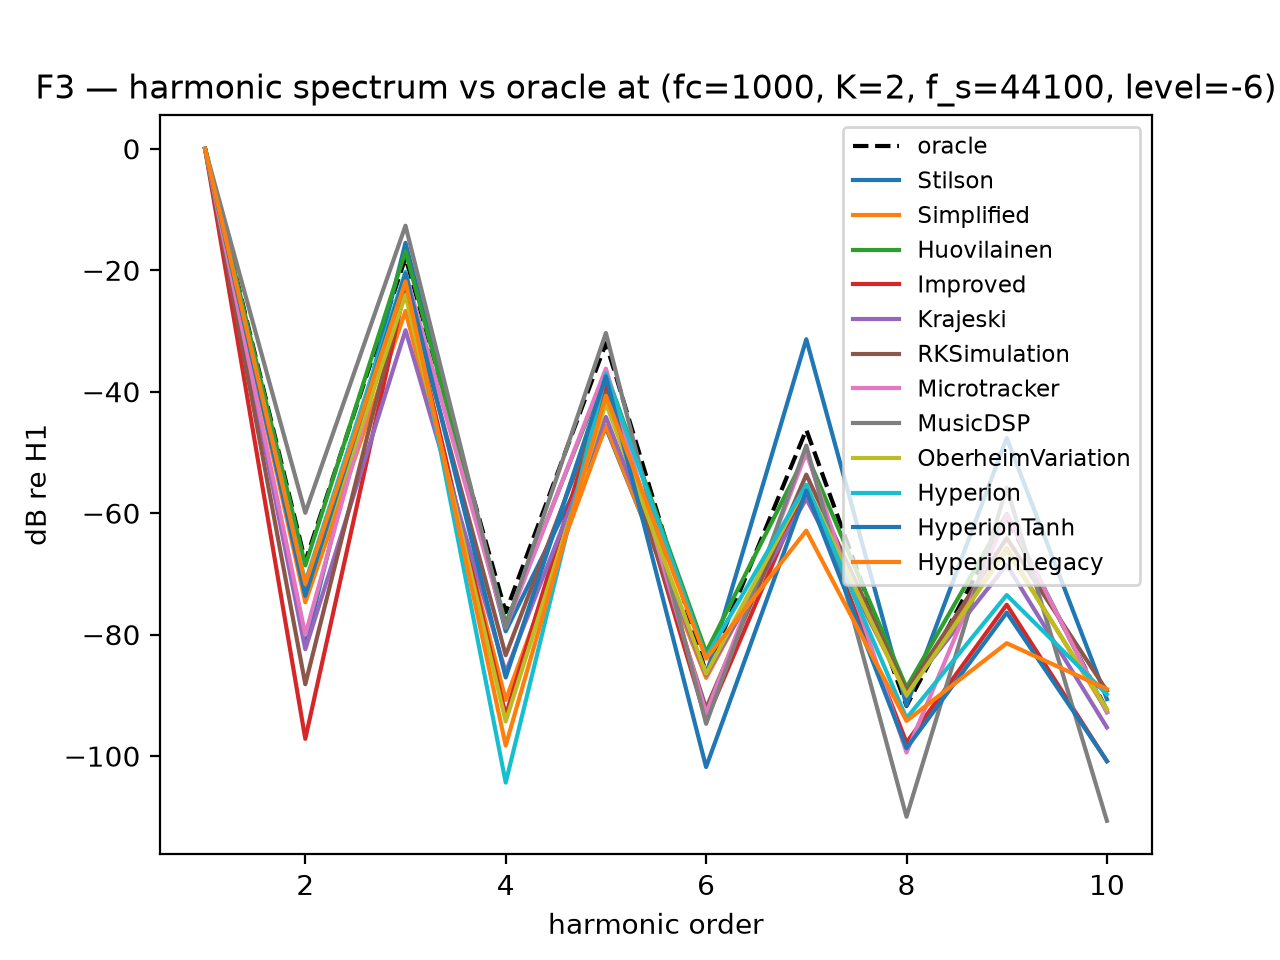
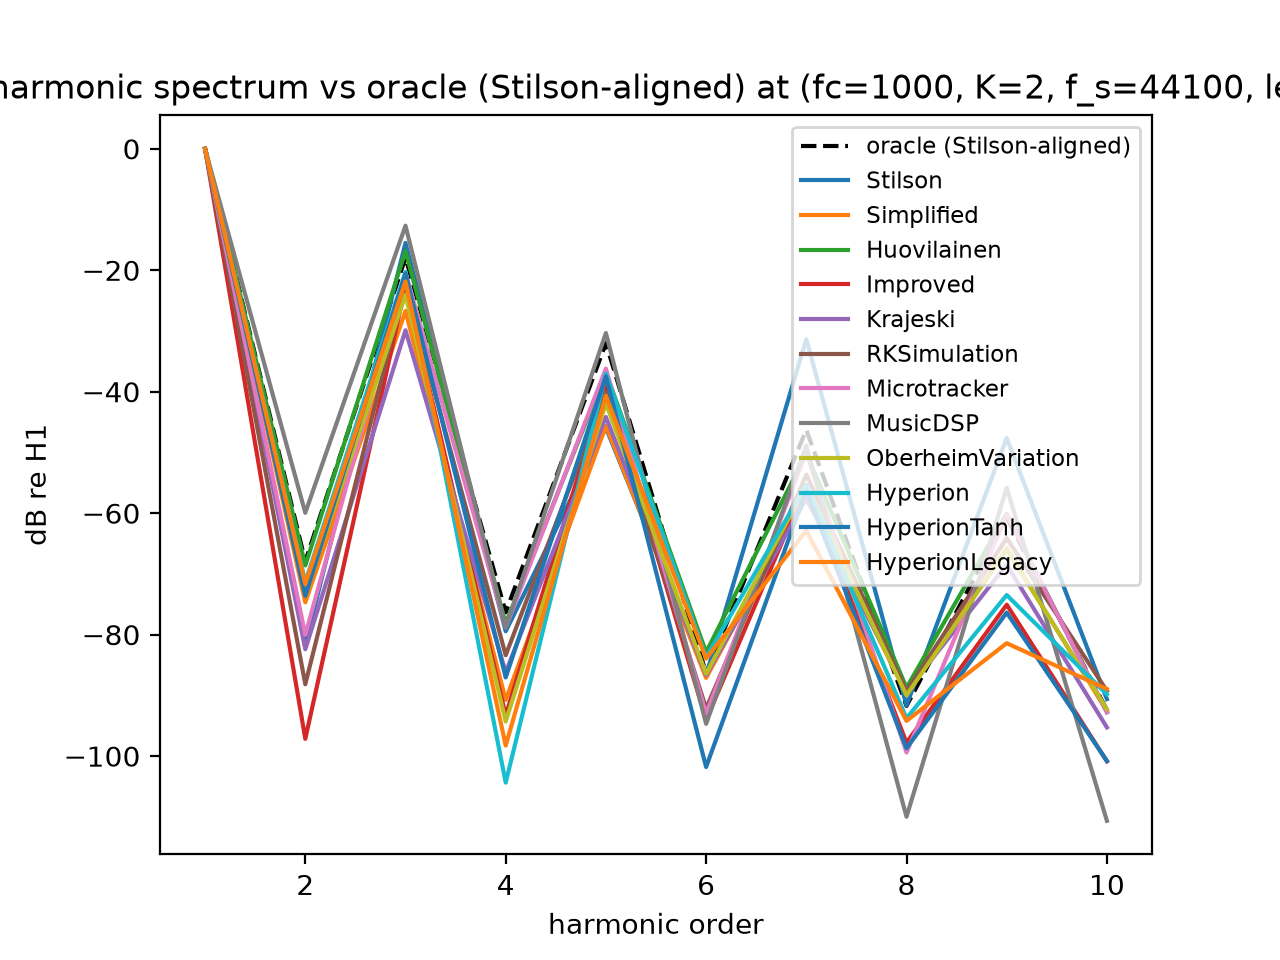
name the oracle source model on F3/F4

Changed region(s): [[0.0, 0.0625, 1.0, 0.625]]

diff --git a/tests/test_report.py b/tests/test_report.py
@@ -169,9 +169,10 @@ def test_f3_and_f4_draw_the_same_models_oracle(monkeypatch, tmp_path):
 
     seen = _captured_axes(monkeypatch, tmp_path, recs)
     f3 = seen["F3_harmonic_spectrum.png"]
-    assert f3["ydata"][f3["labels"].index("oracle")] == [-67.94] + [-80.0] * 9
+    assert f3["ydata"][f3["labels"].index("oracle (Stilson-aligned)")] == \
+        [-67.94] + [-80.0] * 9
     f4 = seen["F4_thd_vs_level.png"]
-    assert f4["ydata"][f4["labels"].index("oracle")] == [12.98] * 5
+    assert f4["ydata"][f4["labels"].index("oracle (Stilson-aligned)")] == [12.98] * 5
 
     # When the enum-first model measured no oracle at all, both figures move to
     # the next one together rather than one of them keeping a stale line.
@@ -182,9 +183,10 @@ def test_f3_and_f4_draw_the_same_models_oracle(monkeypatch, tmp_path):
     assert fe._oracle_source(recs) == "Improved"
     seen = _captured_axes(monkeypatch, tmp_path, recs)
     f3 = seen["F3_harmonic_spectrum.png"]
-    assert f3["ydata"][f3["labels"].index("oracle")] == [-73.78] + [-95.0] * 9
+    assert f3["ydata"][f3["labels"].index("oracle (Improved-aligned)")] == \
+        [-73.78] + [-95.0] * 9
     f4 = seen["F4_thd_vs_level.png"]
-    assert f4["ydata"][f4["labels"].index("oracle")] == [12.96] * 5
+    assert f4["ydata"][f4["labels"].index("oracle (Improved-aligned)")] == [12.96] * 5
 
 
 def test_the_oracle_source_speaks_for_a_figure_it_cannot_serve(monkeypatch, tmp_path):
@@ -203,9 +205,28 @@ def test_the_oracle_source_speaks_for_a_figure_it_cannot_serve(monkeypatch, tmp_
 
     seen = _captured_axes(monkeypatch, tmp_path, recs)
     f3 = seen["F3_harmonic_spectrum.png"]
-    assert "oracle" not in f3["labels"], f3["labels"]
+    assert not any("oracle" in label for label in f3["labels"]), f3["labels"]
     f4 = seen["F4_thd_vs_level.png"]
-    assert f4["ydata"][f4["labels"].index("oracle")] == [12.98] * 5
+    assert f4["ydata"][f4["labels"].index("oracle (Stilson-aligned)")] == [12.98] * 5
+
+
+def test_f3_and_f4_name_the_model_their_oracle_is_aligned_to(monkeypatch, tmp_path):
+    """A line labelled "oracle" does not say what it is a baseline for.
+
+    The oracle on a record is the oracle aligned to that model, so the two figures
+    that draw one are quoting one model's view of it. The report embeds these
+    PNGs, and a reader who cannot see which model the baseline belongs to cannot
+    tell a model difference from an alignment difference.
+    """
+    recs = {
+        "Improved": _with_cases("Improved", [-73.78] + [-95.0] * 9, [12.96] * 5),
+        "Stilson": _with_cases("Stilson", [-67.94] + [-80.0] * 9, [12.98] * 5),
+    }
+    seen = _captured_axes(monkeypatch, tmp_path, recs)
+    for name in ("F3_harmonic_spectrum.png", "F4_thd_vs_level.png"):
+        info = seen[name]
+        assert "oracle (Stilson-aligned)" in info["labels"], info["labels"]
+        assert "Stilson-aligned" in info["title"], info["title"]
 
 
 def test_no_oracle_line_when_no_model_measured_one(monkeypatch, tmp_path):
@@ -213,6 +234,9 @@ def test_no_oracle_line_when_no_model_measured_one(monkeypatch, tmp_path):
     seen = _captured_axes(monkeypatch, tmp_path, {"Stilson": nan_rec})
     for name in ("F3_harmonic_spectrum.png", "F4_thd_vs_level.png"):
         assert "oracle" not in seen[name]["labels"], seen[name]["labels"]
+        # Nothing was drawn, so nothing may claim a source: "(None-aligned)" in a
+        # title is a disclosure that discloses nothing.
+        assert "aligned" not in seen[name]["title"], seen[name]["title"]
 
 
 def test_figures_are_byte_identical_whatever_the_record_order(tmp_path):
@@ -345,7 +369,7 @@ def test_a_nan_profile_draws_no_line_and_no_legend_entry(monkeypatch, tmp_path):
     )
     seen = _captured_axes(monkeypatch, tmp_path, {"A": _record(), "Nan": nan_rec})
     f3 = seen["F3_harmonic_spectrum.png"]
-    assert f3["labels"] == ["oracle", "A"]
+    assert f3["labels"] == ["oracle (A-aligned)", "A"]
 
 
 def _scored(name, lin, nlin):

diff --git a/scripts/faithfulness_eval.py b/scripts/faithfulness_eval.py
@@ -1305,6 +1305,13 @@ def generate_figures(records, out_dir):
     oracle_model = _oracle_source(records)
     oracle_prof = _oracle_pick(records, ORACLE_CASE, "harmonic_profile_db_oracle",
                                model=oracle_model)
+    # The oracle on a record is the oracle aligned to that model, so a line drawn
+    # as "oracle" is quoting one model's view of it and the figures are embedded
+    # where that cannot be read off the surrounding prose. Name the model in the
+    # legend and the title, and say nothing when there is no source to name: a
+    # title reading "(None-aligned)" is a disclosure that discloses nothing.
+    oracle_suffix = f" ({oracle_model}-aligned)" if oracle_model else ""
+    oracle_label = f"oracle{oracle_suffix}"
 
     def legend(ax):
         if ax.get_legend_handles_labels()[0]:
@@ -1358,7 +1365,7 @@ def generate_figures(records, out_dir):
     # THD comes from.
     if oracle_prof:
         ax.plot(range(1, len(oracle_prof) + 1), oracle_prof,
-                color="k", linestyle="--", label="oracle")
+                color="k", linestyle="--", label=oracle_label)
     for name, rec in records.items():
         if not _ok(rec):
             continue
@@ -1368,7 +1375,8 @@ def generate_figures(records, out_dir):
     ax.set_xlabel("harmonic order")
     # harmonic_profile_db reports every harmonic relative to H1, not in dBFS.
     ax.set_ylabel("dB re H1")
-    ax.set_title(fig_caption("F3", title="harmonic spectrum vs oracle",
+    ax.set_title(fig_caption("F3",
+                             title=f"harmonic spectrum vs oracle{oracle_suffix}",
                              fc=1000, K=2, f_s=SAMPLE_RATE, level=-6))
     legend(ax)
     save(fig, "F3_harmonic_spectrum.png")
@@ -1399,11 +1407,11 @@ def generate_figures(records, out_dir):
     if oracle_thd:
         oracle_thd.sort()
         ax.plot([p[0] for p in oracle_thd], [p[1] for p in oracle_thd],
-                color="k", linestyle="--", label="oracle")
+                color="k", linestyle="--", label=oracle_label)
     ax.set_xlabel("level (dBFS)")
     ax.set_ylabel("THD (%)")
-    ax.set_title(fig_caption("F4", title="THD vs level", fc=1000, K=2,
-                             f_s=SAMPLE_RATE, level="5 levels"))
+    ax.set_title(fig_caption("F4", title=f"THD vs level, with oracle{oracle_suffix}",
+                             fc=1000, K=2, f_s=SAMPLE_RATE, level="5 levels"))
     legend(ax)
     save(fig, "F4_thd_vs_level.png")
 
